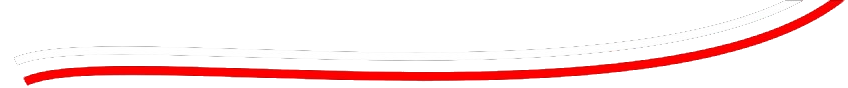
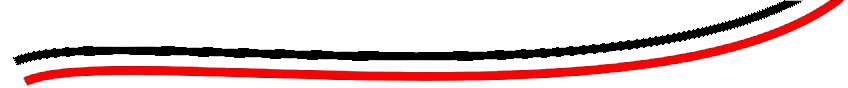
Iniciado as modificações na template, falta apenas alguns ajustes do css. 4h refs #11

Changed region(s): [[0.0, 0.0, 0.9505, 0.7273]]

diff --git a/academia_vida_mais_ativa/app/assets/stylesheets/application.css b/academia_vida_mais_ativa/app/assets/stylesheets/application.css
@@ -58,13 +58,11 @@ a:hover{
  transition: color 2s;
 }
 body{
-  background: url("/assets/fundo-direita.png") repeat-y right top;;
   background-color: #000;
   margin: 0;
 }
 #fundo{
-  background:url("/assets/fundo-esquerda.png") repeat-y left top;
-  padding-top:215px;
+  padding-top: 12%;
 }
 #top_wrapper{
   position: fixed;
@@ -81,7 +79,7 @@ body{
   height: 147px;
   margin: 0 auto;
   width: 65%;
-  background:url("/assets/fundo-topo-preto.png") no-repeat right top #fff;
+  background: url("/assets/fundo-topo.png") no-repeat right top #fff;
 }
 #top .menu{
   z-index: 2;
@@ -89,7 +87,11 @@ body{
   float: right;
   width: 100%;
   margin: 11% 0 0;
-  background: #fff;
+  background: #9B9B9E;
+  -webkit-border-top-left-radius:30px;
+  -webkit-border-top-right-radius:30px;
+  -webkit-border-bottom-left-radius:30px;
+  -webkit-border-bottom-right-radius:30px;
 }
 
 .menu ul {
@@ -132,13 +134,14 @@ body{
 }
 
 #top .menu ul li a {
-  color: #000;
+  color: #fff !important;
 }
 
 #top .menu ul li ul li a:hover,
 #top .menu ul li a:hover {
   color: #CD0000 !important;
   transition: color 3s;
+  background: transparent !important;
 }
 #top .menu ul li a:hover,
 #top .menu ul li a.selecionado {
@@ -177,12 +180,6 @@ h1 {
   -moz-transform: rotate(10deg);
   -o-transform: rotate(10deg);
   -ms-transform: rotate(10deg);
-}
-.endereco{
-  clear: both;
-  text-align: center;
-  display: block;
-  margin: 40px;
 }
 .texto ul,
 .texto ul li{
@@ -286,13 +283,6 @@ ol .tip_trigger{
 .sf-menu li ul li ul {left: 212px; margin-top: 0px;}
 .sf-menu li a:hover {transition: color 2s;}
 ul.sf-menu li.backLava{ position: absolute; z-index: 3; background: url('/assets/lavalamp.png') no-repeat; background-position: center 0px; padding:0; height: 16px; margin-top: 26px; width: 50px;}
-
-.inventto{
-  display: block;
-  margin: 5px auto;
-  width: 91px;
-}
-
 h1 {
   display: none;
 }
@@ -309,4 +299,41 @@ h1 {
   left: 0;
   width: 100% !important;
   height: 100% !important;
+}
+#footer {
+  border-top: 1px solid black;
+  background-color: #E5E5FF;
+  height: auto !important;
+}
+.inventto{
+  float: right;
+  margin-top: 9%;
+}
+.footer-funcionamento {
+  width: 30%;
+}
+.footer-direito {
+  float: right;
+  width: 30%;
+}
+.redes-sociais {
+  float: left;
+  position:relative;
+  margin-top: 1%;
+}
+.redes-sociais a {
+  position:relative;
+  left: 22%;
+}
+.endereco{
+  text-align: center;
+  margin-top: 1%;
+}
+#carousel-home-fotos .item img {
+  width: 100%;
+  height: auto !important;
+}
+#footer table, th, td {
+  border: 1px solid black;
+  padding: 0;
 }

diff --git a/academia_vida_mais_ativa/config/routes.rb b/academia_vida_mais_ativa/config/routes.rb
@@ -6,13 +6,13 @@ Rails.application.routes.draw do
   # We ask that you don't use the :as option here, as Refinery relies on it being the default of "refinery"
   mount Refinery::Core::Engine, at: '/'
 
-
-  get '/fotos' => 'application#index'
+ 
+  #get '/' => 'application#index'
   # The priority is based upon order of creation: first created -> highest priority.
   # See how all your routes lay out with "rake routes".
 
   # You can have the root of your site routed with "root"
-  # root 'welcome#index'
+  #root 'application#index'
 
   # Example of regular route:
   #   get 'products/:id' => 'catalog#view'
